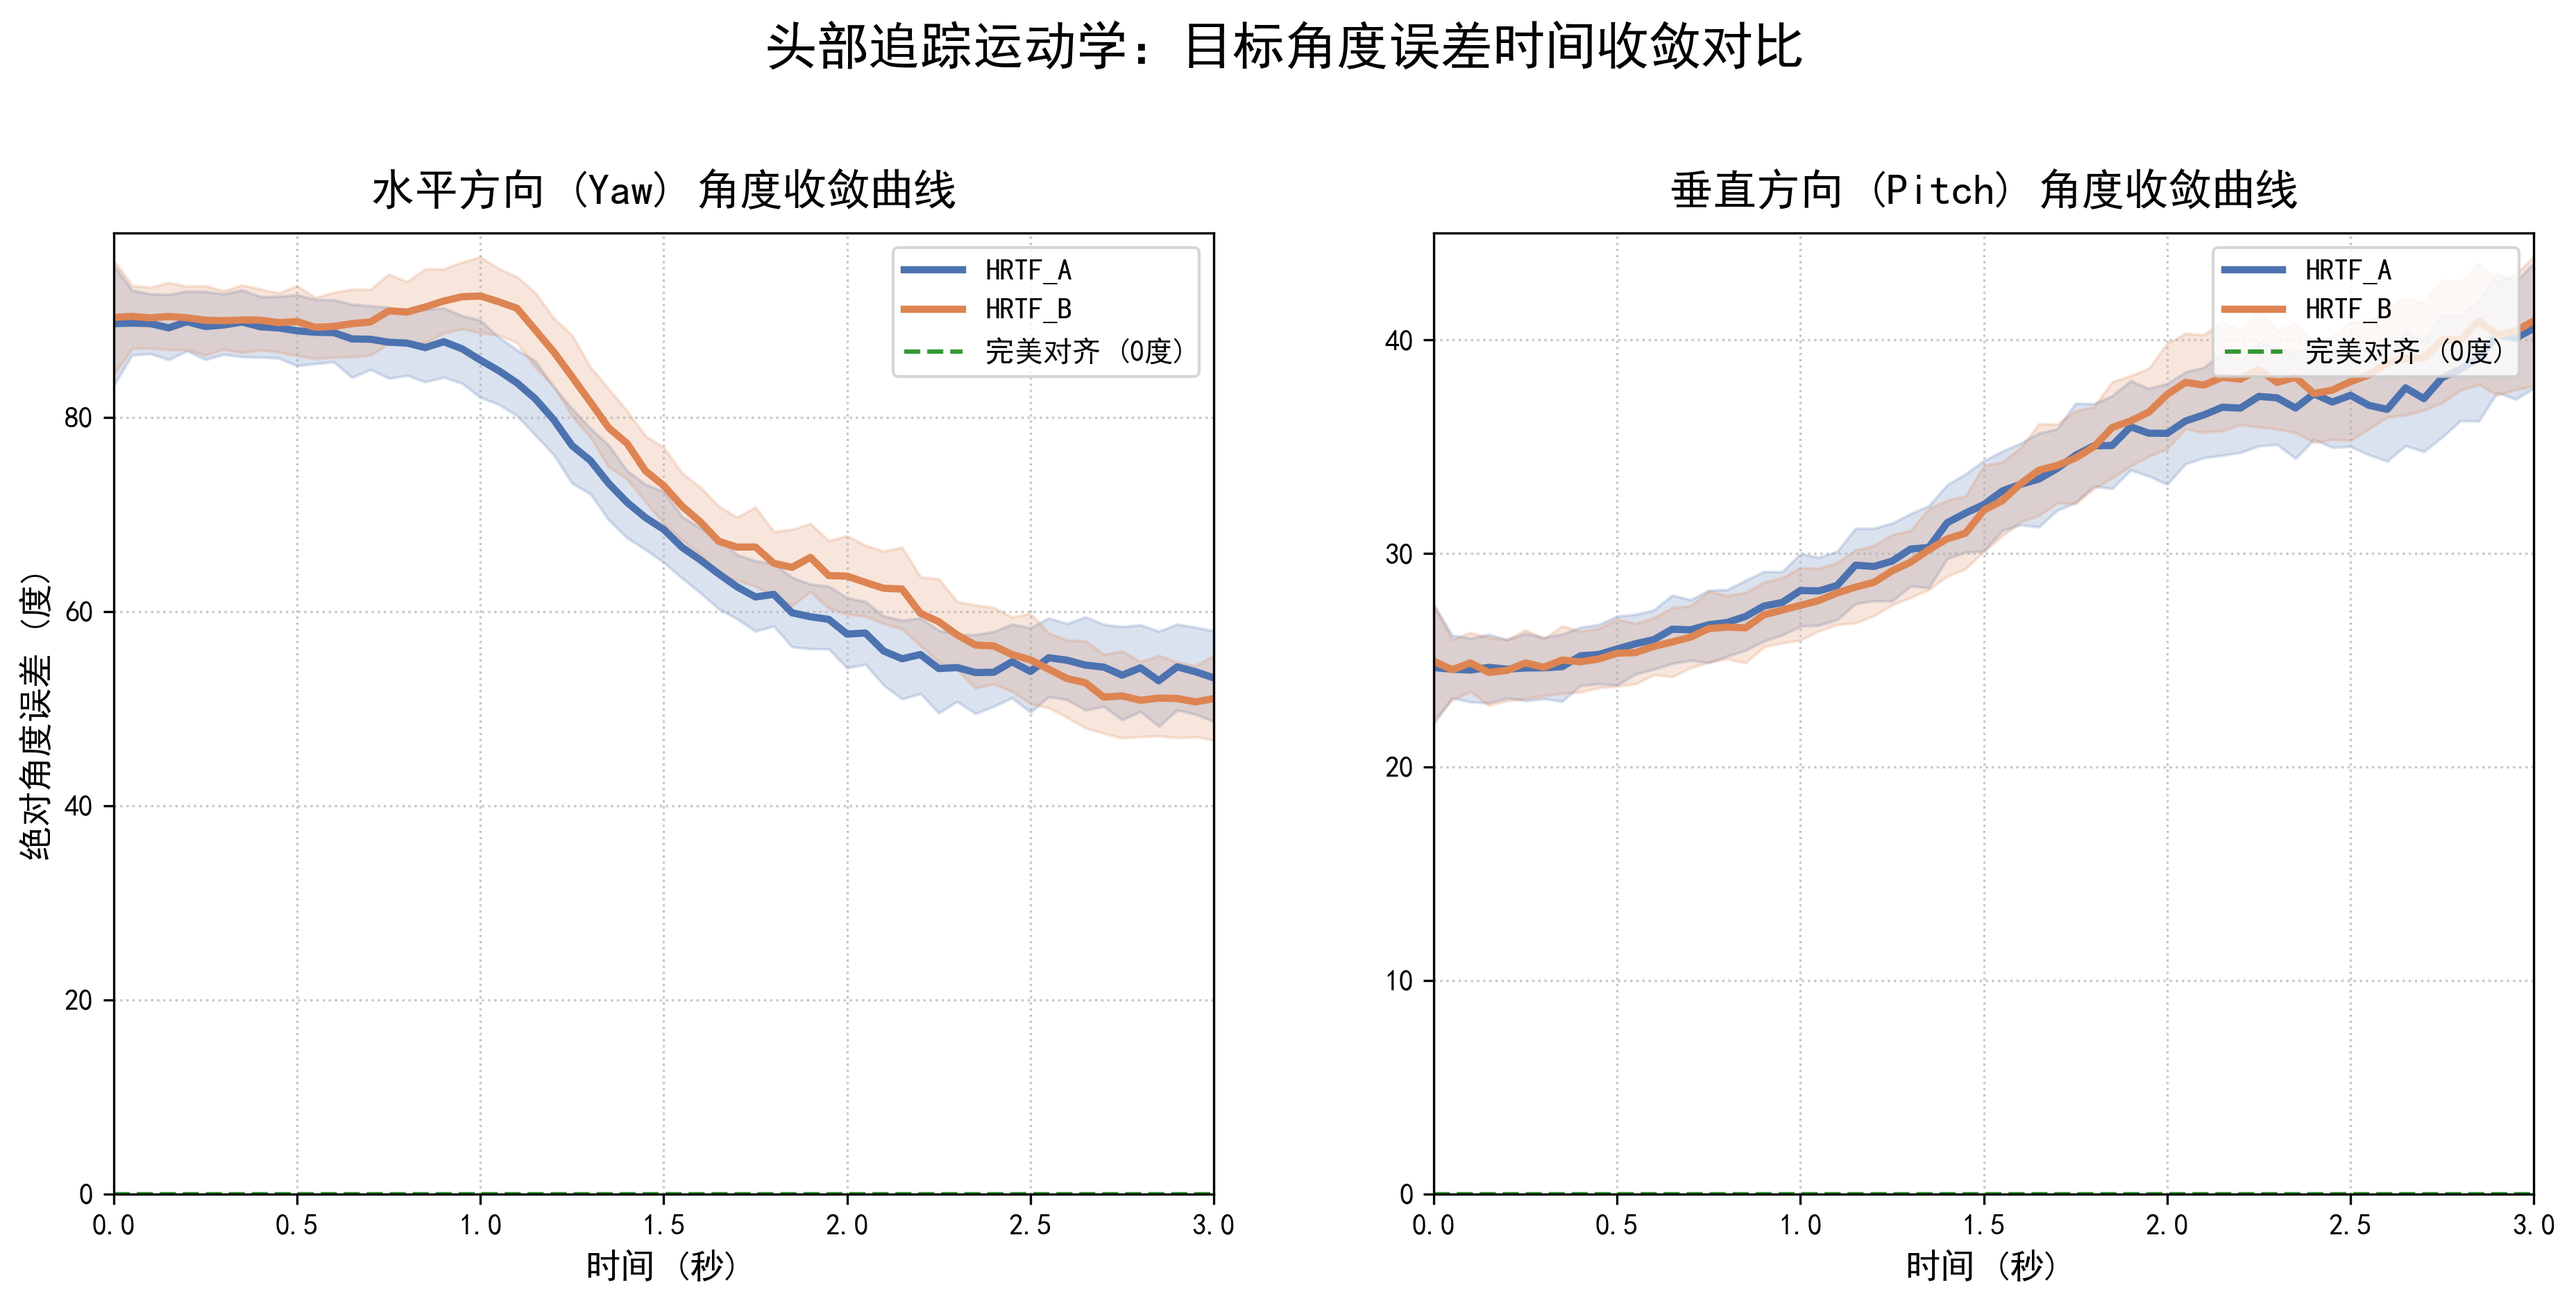
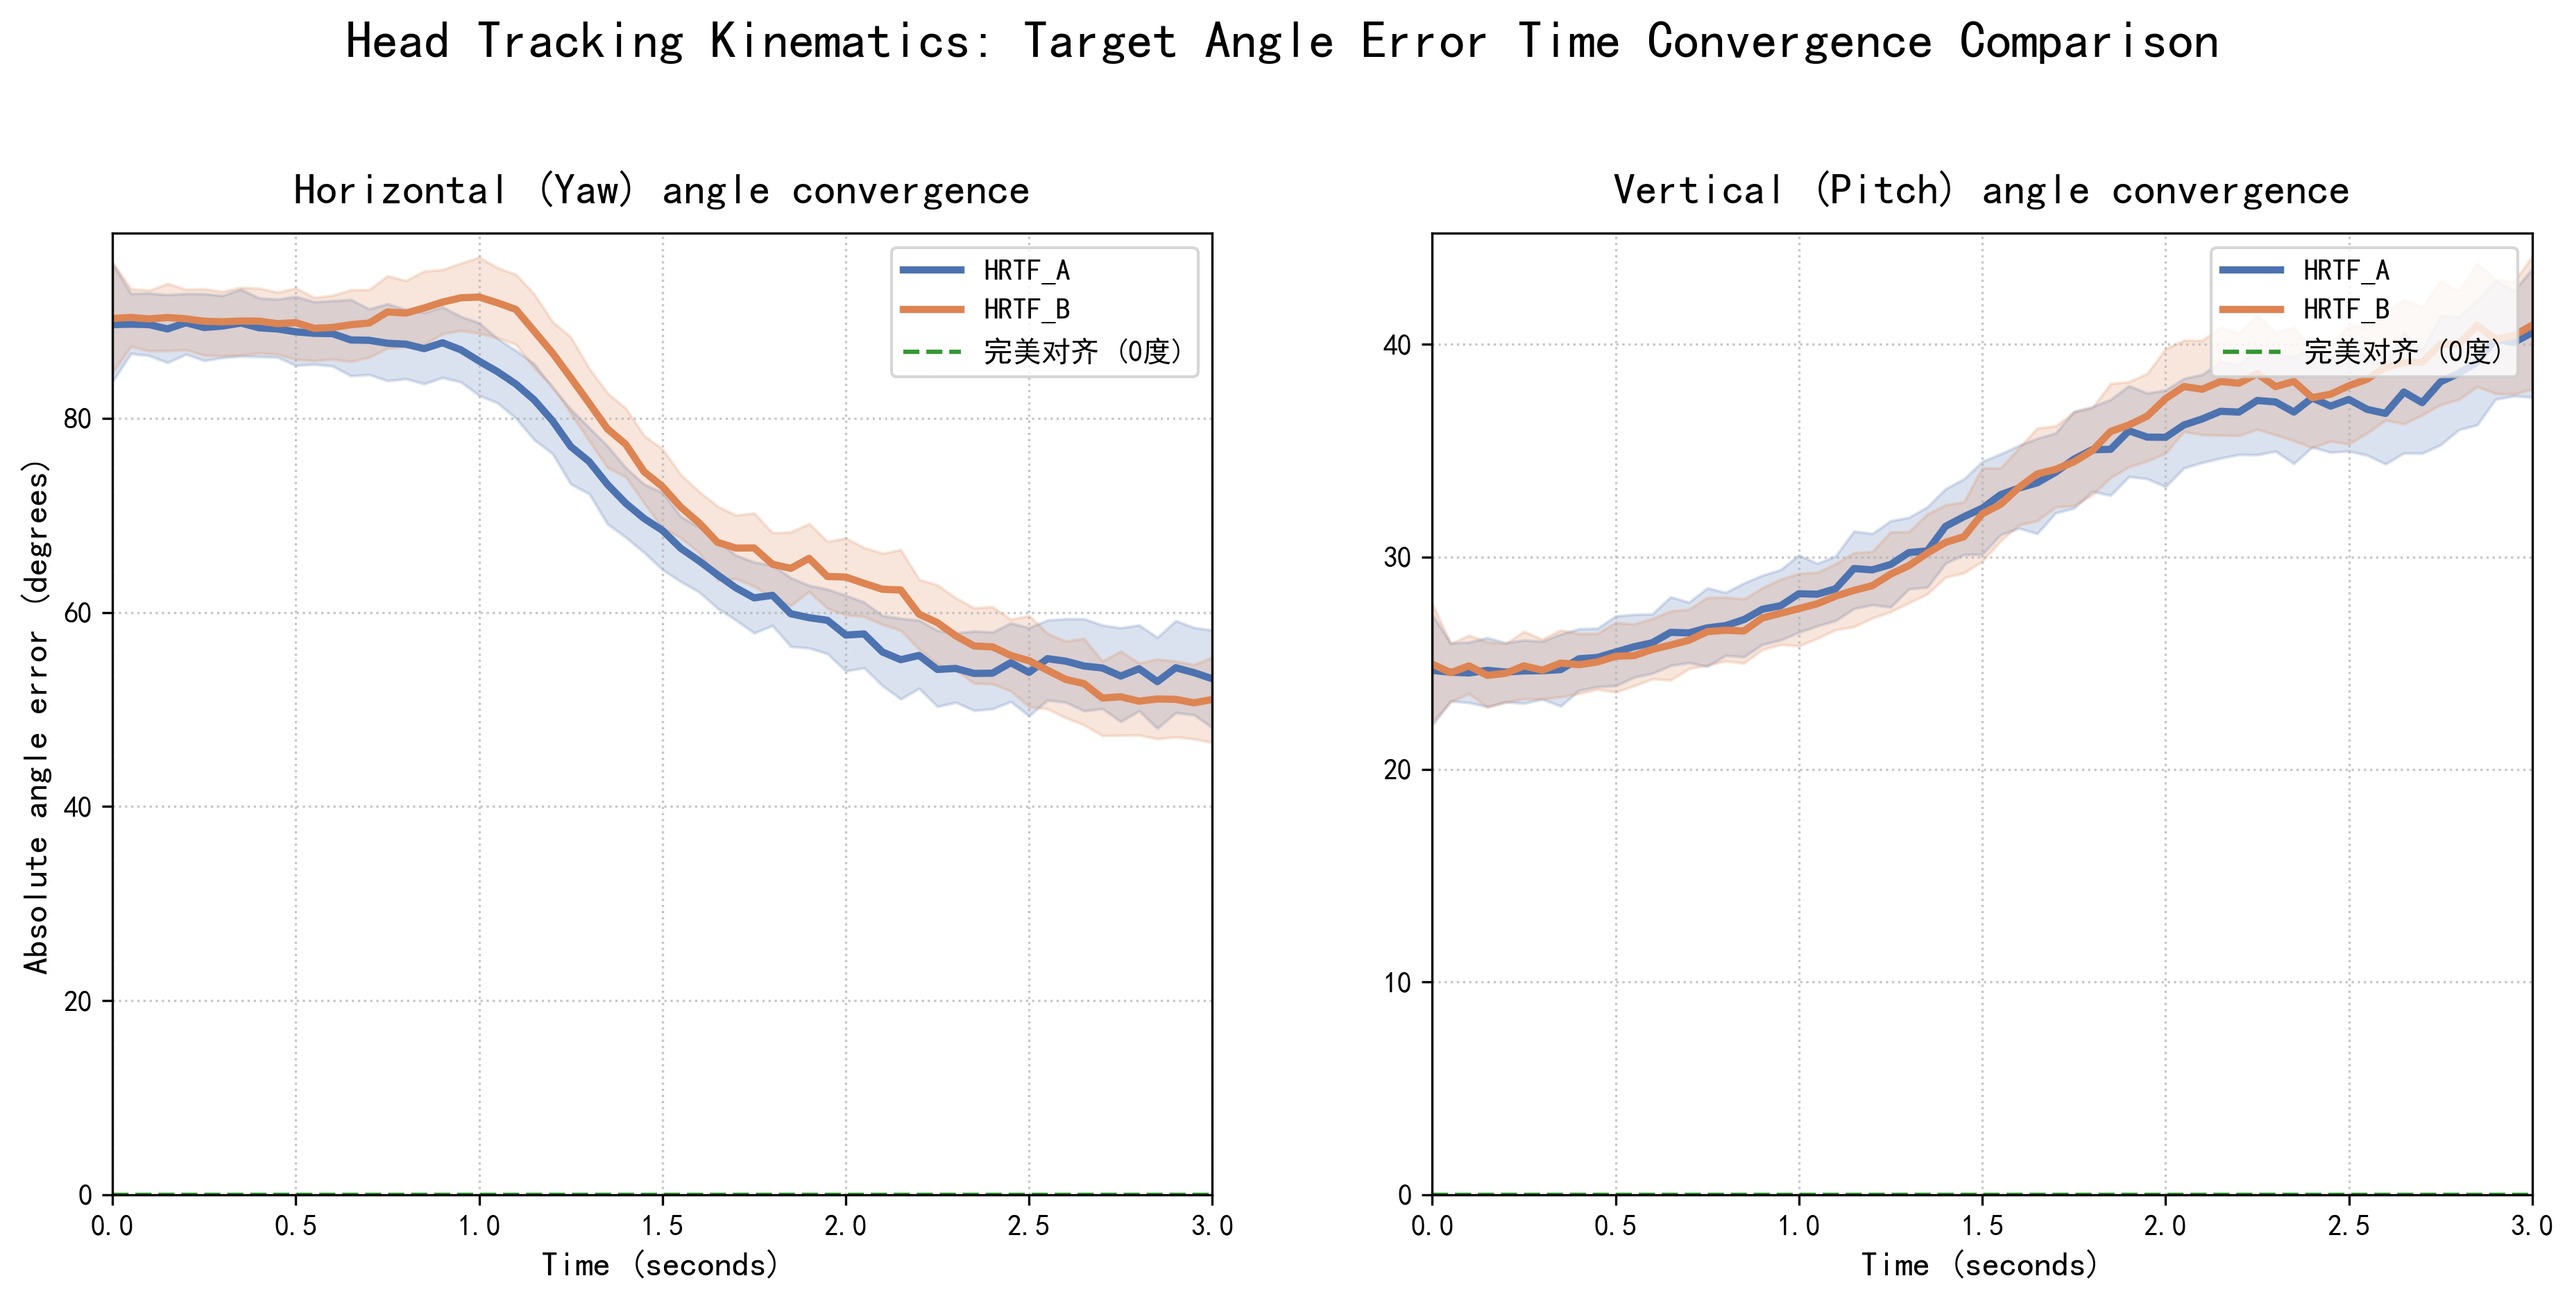
111

diff --git a/Analysing/Graph 5.py b/Analysing/Graph 5.py
@@ -82,8 +82,8 @@ sns.lineplot(
     errorbar=('ci', 95), # 画出 95% 置信区间阴影 (老版本seaborn可能是 ci=95)
     ax=axes[0]
 )
-axes[0].set_title('水平方向 (Yaw) 角度收敛曲线', fontsize=15, fontweight='bold', pad=10)
-axes[0].set_ylabel('绝对角度误差 (度)', fontsize=12)
+axes[0].set_title('Horizontal (Yaw) angle convergence', fontsize=15, fontweight='bold', pad=10)
+axes[0].set_ylabel('Absolute angle error (degrees)', fontsize=12)
 
 # ----------------- 右图：垂直高度 (Pitch) 收敛 -----------------
 sns.lineplot(
@@ -96,12 +96,12 @@ sns.lineplot(
     errorbar=('ci', 95),
     ax=axes[1]
 )
-axes[1].set_title('垂直方向 (Pitch) 角度收敛曲线', fontsize=15, fontweight='bold', pad=10)
+axes[1].set_title('Vertical (Pitch) angle convergence', fontsize=15, fontweight='bold', pad=10)
 axes[1].set_ylabel('') # 共用语意，省略 Y 轴标签
 
 # ----------------- 全局美化 -----------------
 for ax in axes:
-    ax.set_xlabel('时间 (秒)', fontsize=12)
+    ax.set_xlabel('Time (seconds)', fontsize=12)
     ax.set_xlim(0, MAX_TIME_TO_PLOT)
     ax.set_ylim(bottom=0) # 误差最小就是 0 度，也就是完美对齐
     
@@ -119,7 +119,7 @@ for ax in axes:
         labels.pop(idx)
     ax.legend(handles=handles, labels=labels, loc='upper right')
 
-plt.suptitle('头部追踪运动学：目标角度误差时间收敛对比', fontsize=18, fontweight='bold', y=1.05)
+plt.suptitle('Head Tracking Kinematics: Target Angle Error Time Convergence Comparison', fontsize=18, fontweight='bold', y=1.05)
 
 plt.savefig('Fig5_Time_Series_Convergence.png', dpi=300, bbox_inches='tight')
 plt.show()

diff --git a/Analysing/Graph1.py b/Analysing/Graph1.py
@@ -37,7 +37,7 @@ baseline_file_path = os.path.join(folder_path_train, 'Training_Converged_Results
 train_baseline_df = pd.read_csv(baseline_file_path)
 
 # 我们采用“最后5次的平均趋近时间”作为该被试的个人生理基线
-baseline_dict = dict(zip(train_baseline_df['ParticipantID'], train_baseline_df['Converged_Time_Last5_sec']))
+#baseline_dict = dict(zip(train_baseline_df['ParticipantID'], train_baseline_df['Converged_Time_Last5_sec']))
 
 # ==========================================
 # 2. 数据处理：计算调整后的反应时间 (Adjusted Reaction Time)

diff --git a/Analysing/Graph3.py b/Analysing/Graph3.py
@@ -25,7 +25,7 @@ df['Target_Pitch'] = df['TargetNumber'].apply(lambda x: elevation_map[int(x) % 4
 # 2. 【核心升级】程序自动检索 Trial 编号
 # ==========================================
 # 🎯 在这里设定你想观察的“目标编号 (0-31)”
-TARGET_TO_OBSERVE = 27 
+TARGET_TO_OBSERVE = 9 
 
 # 让程序自动去茫茫数据海中寻找，哪些 Trial 测试了这个目标
 trials_A = df[(df['Phase'] == 'HRTF_A') & (df['TargetNumber'] == TARGET_TO_OBSERVE)]['Trial'].unique()
